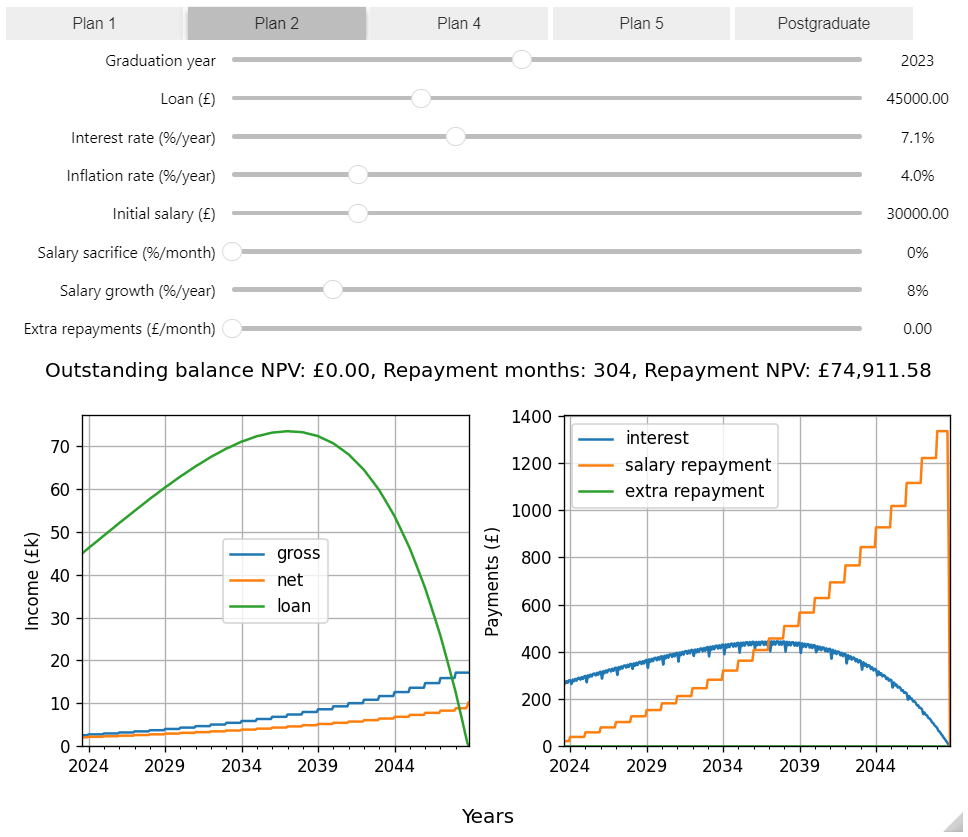
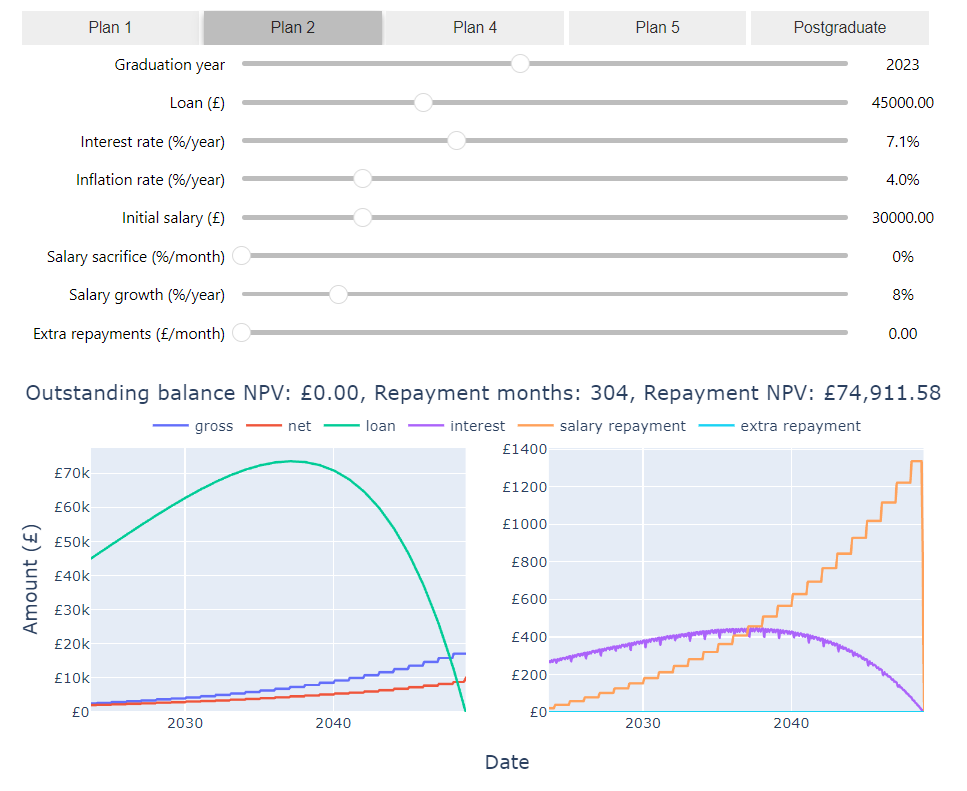
Convert from matplotlib to plotly

diff --git a/utils/ui.py b/utils/ui.py
@@ -2,12 +2,13 @@ import os
 from datetime import date
 
 import ipywidgets as widgets
-import matplotlib.pyplot as plt
 import pandas as pd
+import plotly.graph_objects as go
+from plotly.subplots import make_subplots
 
 from utils.tax import net_present_value
 
-plt.ioff()
+pd.options.plotting.backend = "plotly"
 
 style = {"description_width": "22%"}
 layout = widgets.Layout(width="auto")
@@ -123,33 +124,43 @@ inputs = {
     "extra_repayments": extra_repayments,
 }
 
+controls = widgets.VBox(children=tuple(inputs.values()))
 
-def get_plot(width: int = 800):
-    px = 1 / plt.rcParams["figure.dpi"]
-    plt.rcParams["axes.grid"] = True
-    fig, axes = plt.subplots(1, 2, figsize=(width * px, width / 2 * px))
-    fig.canvas.header_visible = False
-    return fig, axes
+fig = go.FigureWidget(
+    make_subplots(
+        rows=1,
+        cols=2,
+        shared_xaxes="all",
+        horizontal_spacing=0.1,
+        # vertical_spacing=0,
+        x_title="Date",
+        y_title="Amount (£)",
+    )
+)
+fig.update_layout(
+    margin=dict(l=60, r=20, t=80, b=60),
+    legend=dict(
+        orientation="h",
+        yanchor="bottom",
+        y=1.02,
+        xanchor="center",
+        x=0.5,
+    ),
+)
+fig.update_yaxes(tickprefix="£", nticks=10, rangemode="nonnegative")
+
+app = widgets.VBox(
+    children=[
+        controls,
+        fig,
+    ],
+)
 
 
-def plot_update(
-    fig,
-    ax0,
-    ax1,
+def plot(
     data: pd.DataFrame,
     inflation_rate: float = 0.05,
 ):
-    # Remove anything that's currently on the axes
-    ax0.clear()
-    ax1.clear()
-    # Plot lines
-    data[["gross", "net", "loan"]].divide(1000).plot(ax=ax0)
-    data[["interest", "salary repayment", "extra repayment"]].plot(ax=ax1)
-    fig.supxlabel("Years")
-    ax0.set_ylabel("Income (£k)")
-    ax0.set_ylim(0)
-    ax1.set_ylabel("Payments (£)")
-    ax1.set_ylim(0)
     # Create title
     final_loan_npv = net_present_value(data["loan"], discount_rate=inflation_rate / 12)[
         -1
@@ -159,18 +170,22 @@ def plot_update(
     total_repayment_npv = net_present_value(
         annual_repayments, discount_rate=inflation_rate
     ).sum()
-    suptitle = f"Outstanding balance NPV: £{final_loan_npv:,.2f}, Repayment months: {len(data)}, Repayment NPV: £{total_repayment_npv:,.2f}"
-    plt.suptitle(suptitle)
-    plt.tight_layout()
-    fig.canvas.draw()
-    fig.canvas.flush_events()
-    return fig, ax0, ax1
+    title_text = f"Outstanding balance NPV: £{final_loan_npv:,.2f}, Repayment months: {len(data)}, Repayment NPV: £{total_repayment_npv:,.2f}"
 
-
-def plot(
-    data: pd.DataFrame,
-    inflation_rate: float = 0.05,
-    title: str = "",
-):
-    fig, (ax0, ax1) = get_plot(800)
-    return plot_update(fig, ax0, ax1, data, inflation_rate, title)
+    # Plot lines
+    lines = data.plot()
+    with fig.batch_update():
+        # Add/update data
+        if not fig.data:
+            fig.add_traces(lines.data, rows=[1, 1, 1, 1, 1, 1], cols=[1, 1, 1, 2, 2, 2])
+        else:
+            for old_data, new_data in zip(fig.data, lines.data):
+                old_data.x = new_data.x
+                old_data.y = new_data.y
+        # Update title
+        fig.update_layout(
+            title=dict(
+                text=title_text,
+                x=0.5,
+            )
+        )
